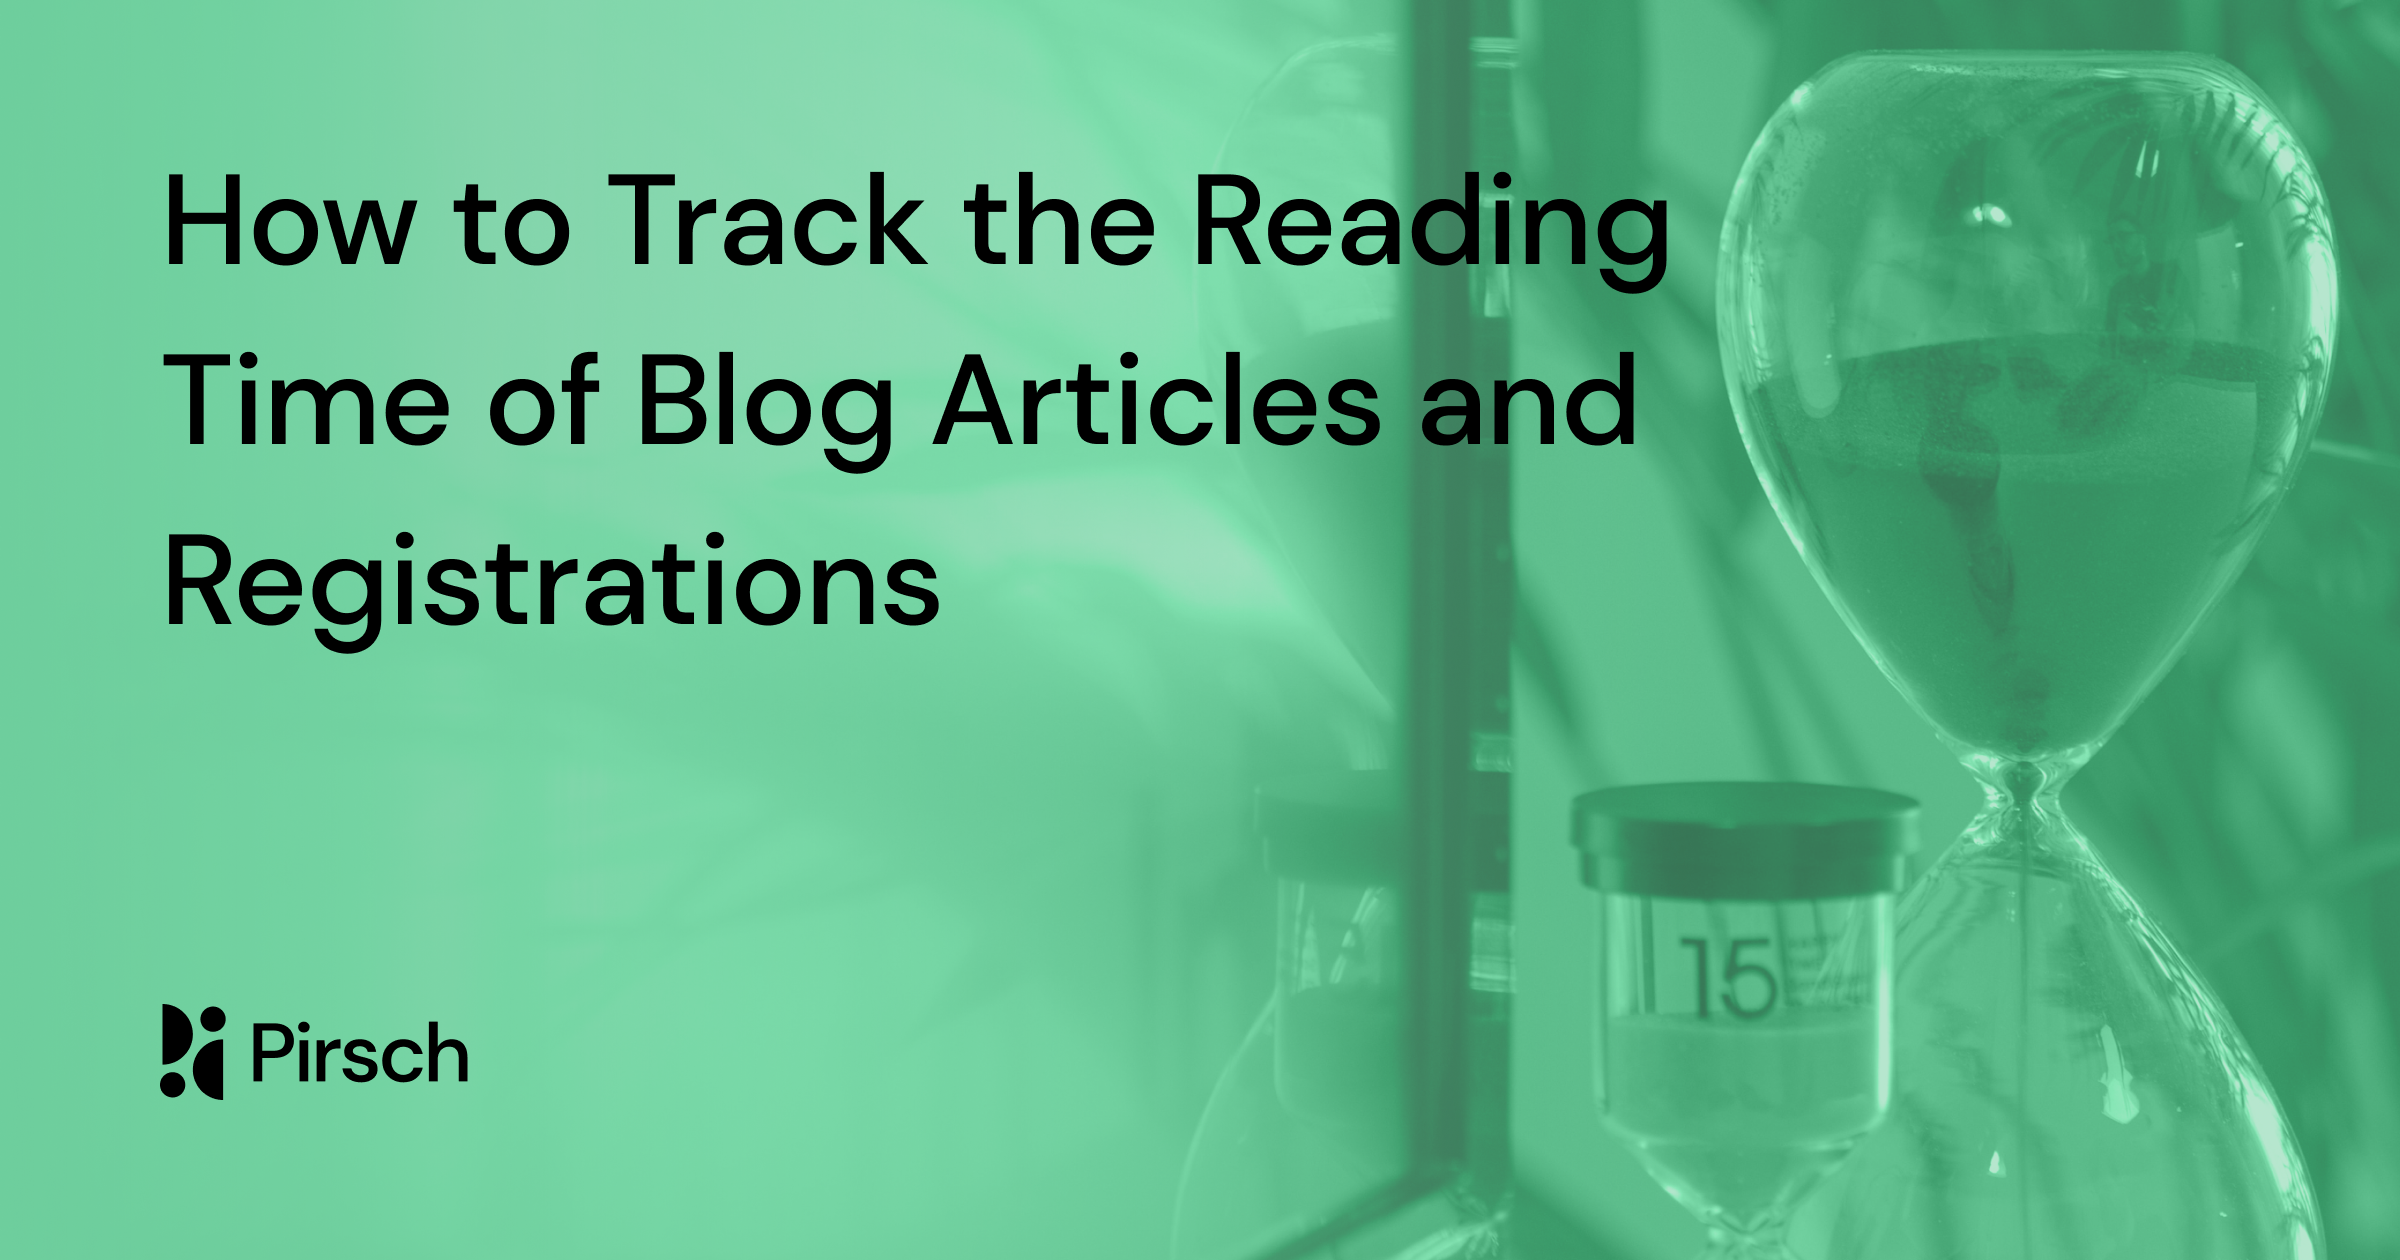
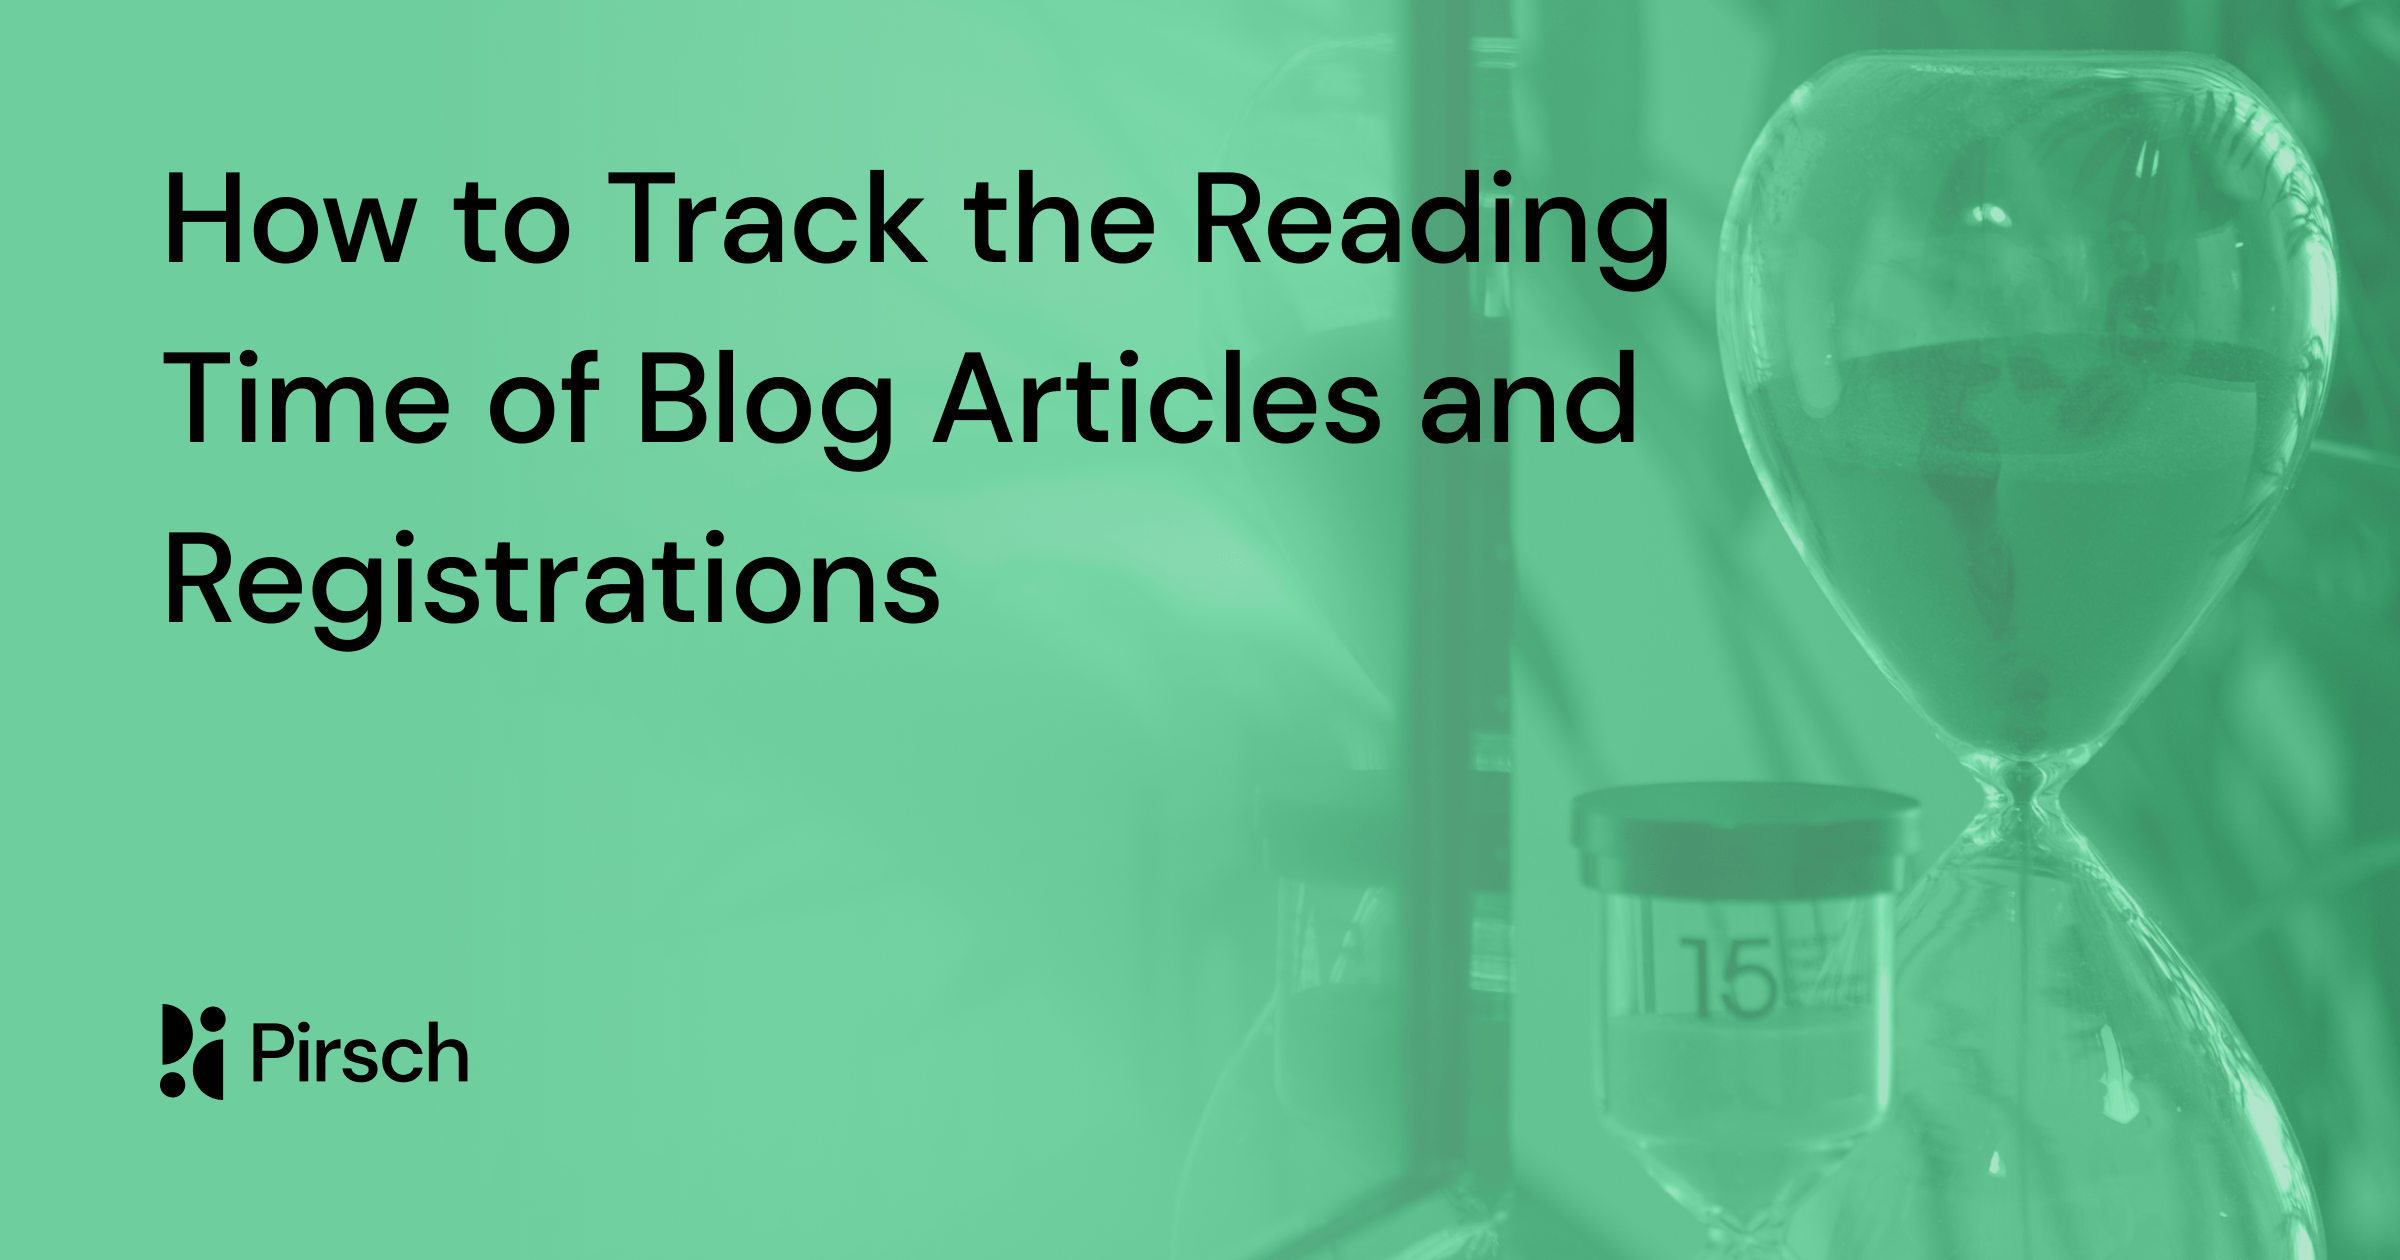
Replaced and compressed all images.

diff --git a/techstack.md b/techstack.md
@@ -2,7 +2,7 @@ slug = "techstack"
 title = "How We Develop and Operate Pirsch"
 date = 2021-07-04
 summary = "Learn how we operate Pirsch on Hetzner cloud using HashiCorp Nomad, Traefik, Letsencrypt and more."
-image = "pcb.jpg"
+image = "development.png"
 
 [author]
 name = "Marvin Blum"
